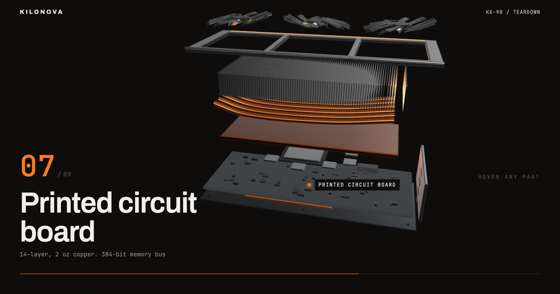
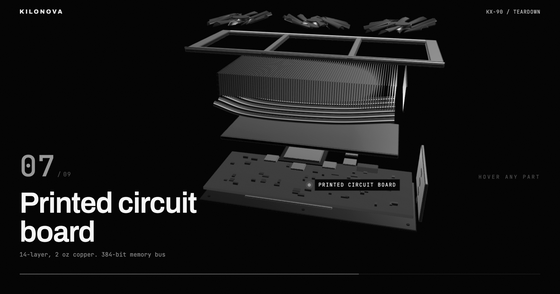
feat: the motion work as a black-and-white contact sheet
Adds the two studies the profile was not showing. `workspace/motion` holds
five, and only three were here: the turbofan wearing the portfolio was
missing entirely, and ROSENSWEIG was not mentioned at all.

Every still is converted to true greyscale now, so the section reads as one
black-and-white index rather than five separate dark-with-orange frames.
That is a position, not a compromise: the README is the contact sheet, the
colour lives on the sites it links to, and the caption says so. Greyscale
also took the hero GIF from 2.4 MB to 1.8 MB, which matters on a page that
loads on every profile view.

ROSENSWEIG is named but has no frame. It is driven by sound rather than
scroll, and headless Chromium has no audio device, so the analyser reads
silence and the ferrofluid renders as a flat undisturbed pool. A still of
that would undersell it. It is not deployed yet either, so there is nothing
to link.

Claude-Session: https://claude.ai/code/session_01Q3EoMpMgWxAbBdLQ4EHAWo

diff --git a/README.md b/README.md
@@ -20,29 +20,38 @@ connect high school builders with the founders, investors and operators who take
 hosted our first Innovation Challenge on 27 July 2026 at RSM in Boston: one prompt, five hours, mentors
 on the floor, then pitches to a real panel. 501(c)(3) in progress.
 
-### Motion studies
+### Motion
 
-Four objects rebuilt in the browser to work out how motion carries an explanation.
-Each is a single scroll: the thing separates along the axis it was assembled on, and
-every part names itself on the way out. The turbocharger above is the third of them.
+Five objects rebuilt in the browser from primitives. No model files, no textures, nothing
+downloaded: every part is generated in code. Four of them come apart on scroll, along the
+axis they were assembled on, and each part names itself on the way out.
 
 <table>
   <tr>
-    <td width="50%">
+    <td width="33%" valign="top">
       <a href="https://kilonova-eta.vercel.app"><img src="./assets/motion/kilonova.png" alt="A graphics card exploded into nine layers" width="100%"></a>
       <br><b><a href="https://kilonova-eta.vercel.app">KILONOVA KX-90</a></b>
-      <br><sub>A graphics card, nine parts, split along its lamination axis</sub>
+      <br><sub>Graphics card, 9 parts, split along its lamination axis</sub>
     </td>
-    <td width="50%">
+    <td width="33%" valign="top">
       <a href="https://sidereal-flame.vercel.app"><img src="./assets/motion/sidereal.png" alt="A hard disk drive exploded into seven parts" width="100%"></a>
       <br><b><a href="https://sidereal-flame.vercel.app">SIDEREAL SD-24</a></b>
-      <br><sub>A hard disk drive, seven parts, split along its stacking axis</sub>
+      <br><sub>Hard disk drive, 7 parts, split along its stacking axis</sub>
+    </td>
+    <td width="33%" valign="top">
+      <a href="https://myan-portfolio.vercel.app"><img src="./assets/motion/turbofan.png" alt="A jet engine exploded into eleven parts, still spinning" width="100%"></a>
+      <br><b><a href="https://myan-portfolio.vercel.app">Turbofan</a></b>
+      <br><sub>Jet engine, 11 parts, and it keeps spinning while it is pulled apart</sub>
     </td>
   </tr>
 </table>
 
-The fourth one is load bearing: the turbofan on
-**[my portfolio](https://myan-portfolio.vercel.app)** keeps spinning while it is pulled apart.
+<sub>Stills are black and white on purpose. The work is not. Open one.</sub>
+
+The fifth changes the motor instead of the object. Four teardowns in, what they had in
+common was not the object, it was that scroll drove every one of them, which is why they
+started to blur together. **ROSENSWEIG** is driven by sound instead: the page synthesises
+a track, and a dish of ferrofluid spikes into a lattice on the beat. Not deployed yet.
 
 ### Shipped
 
